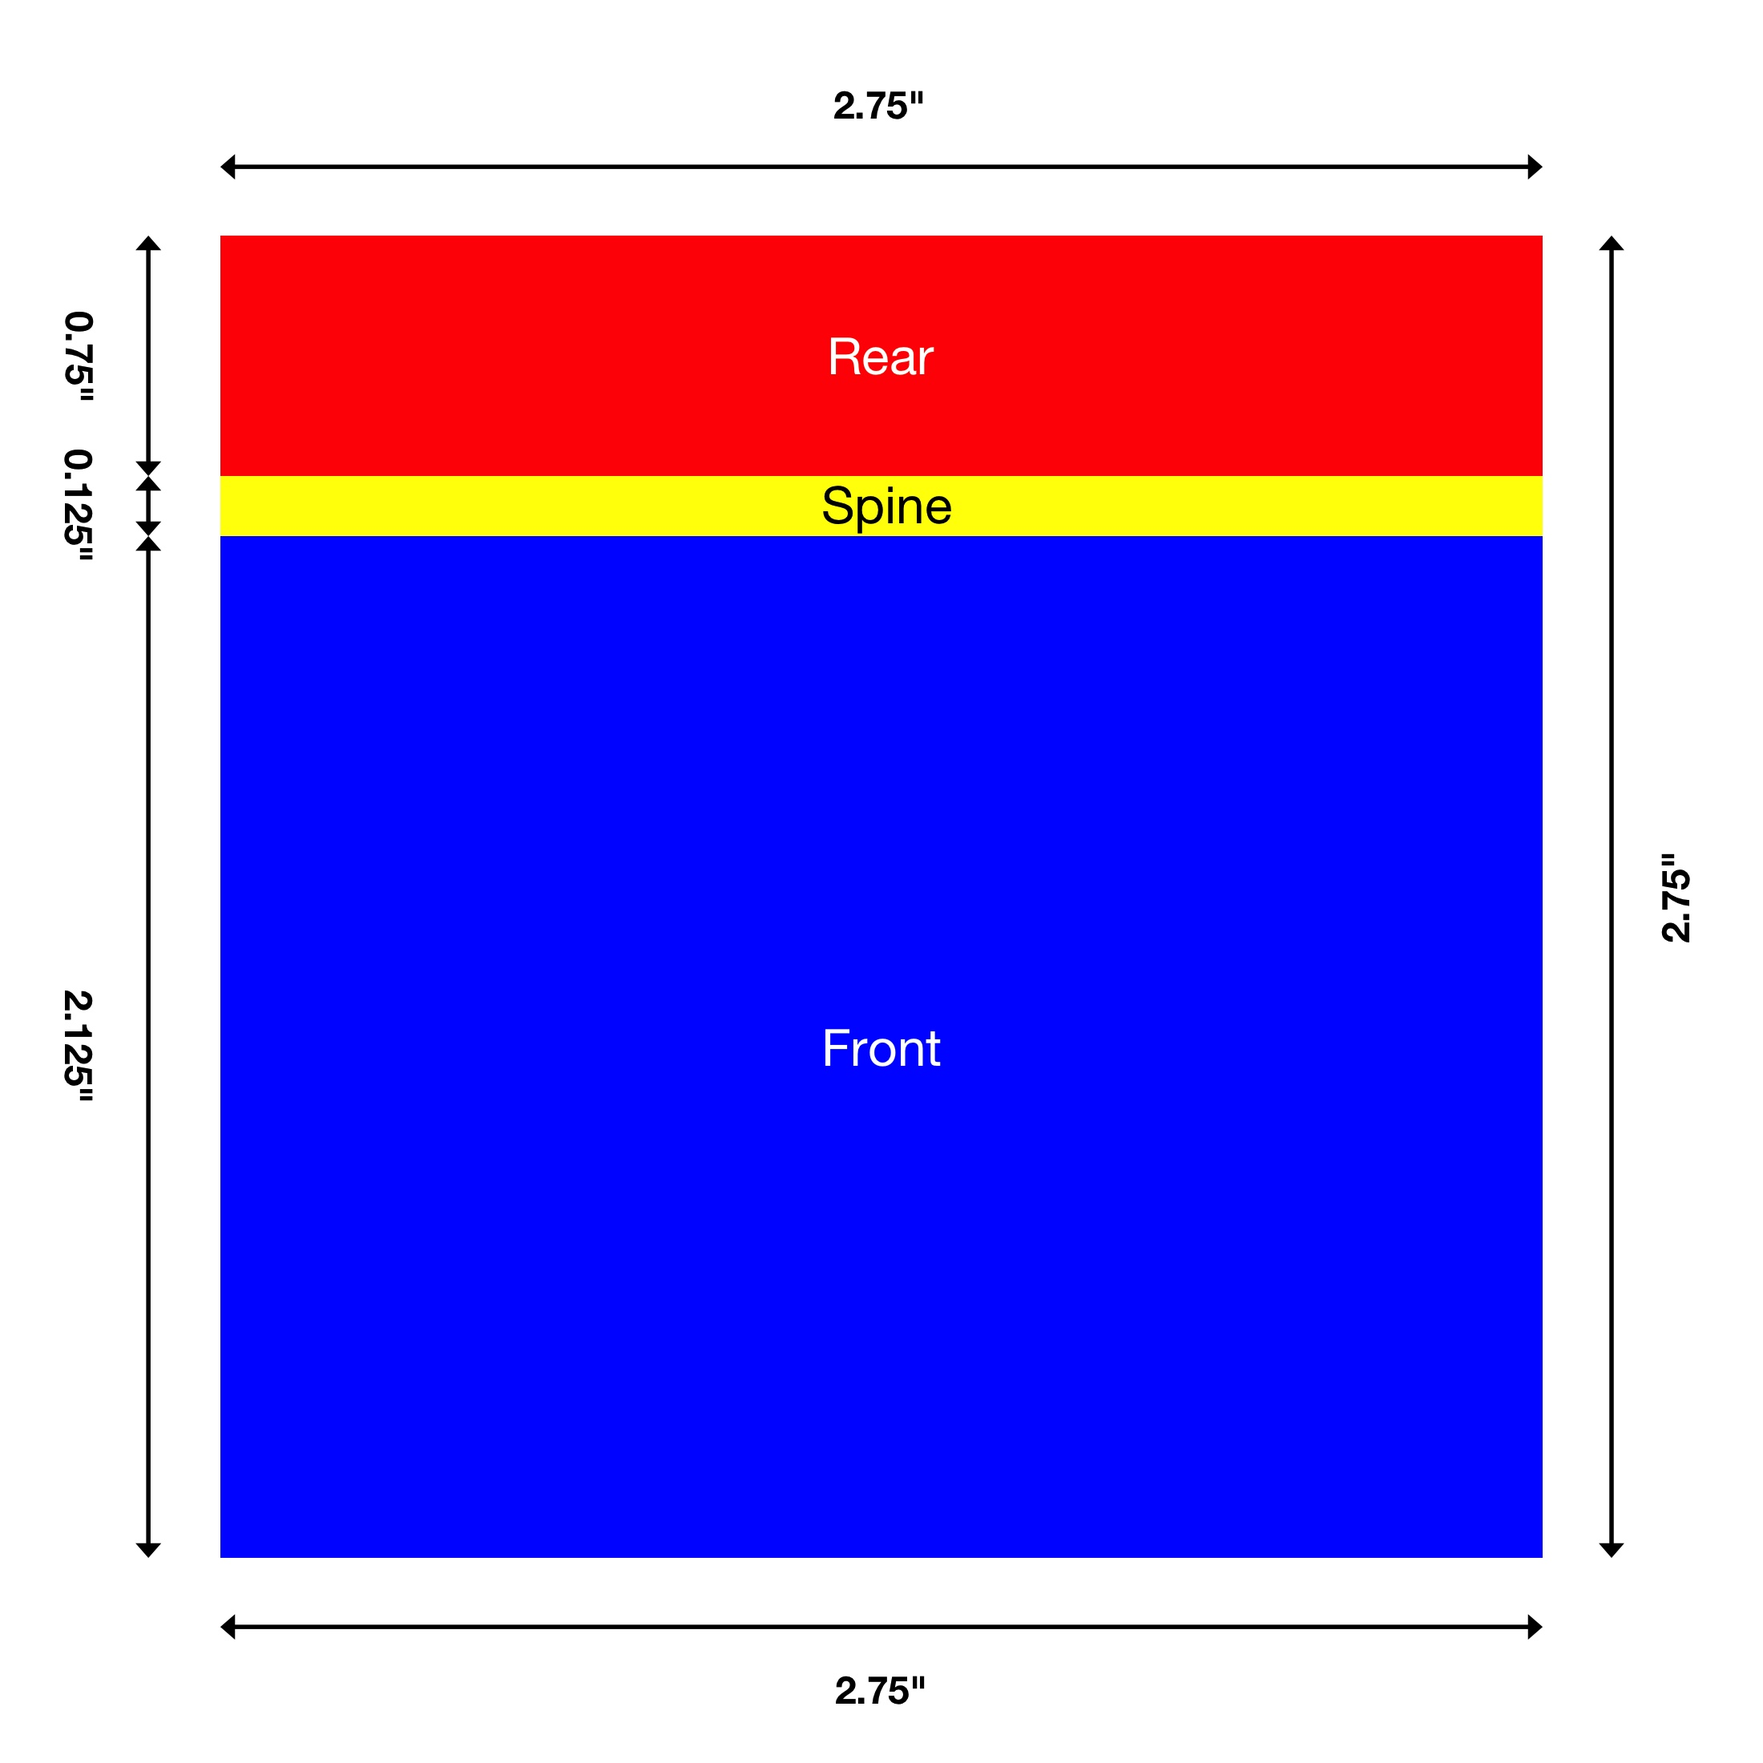
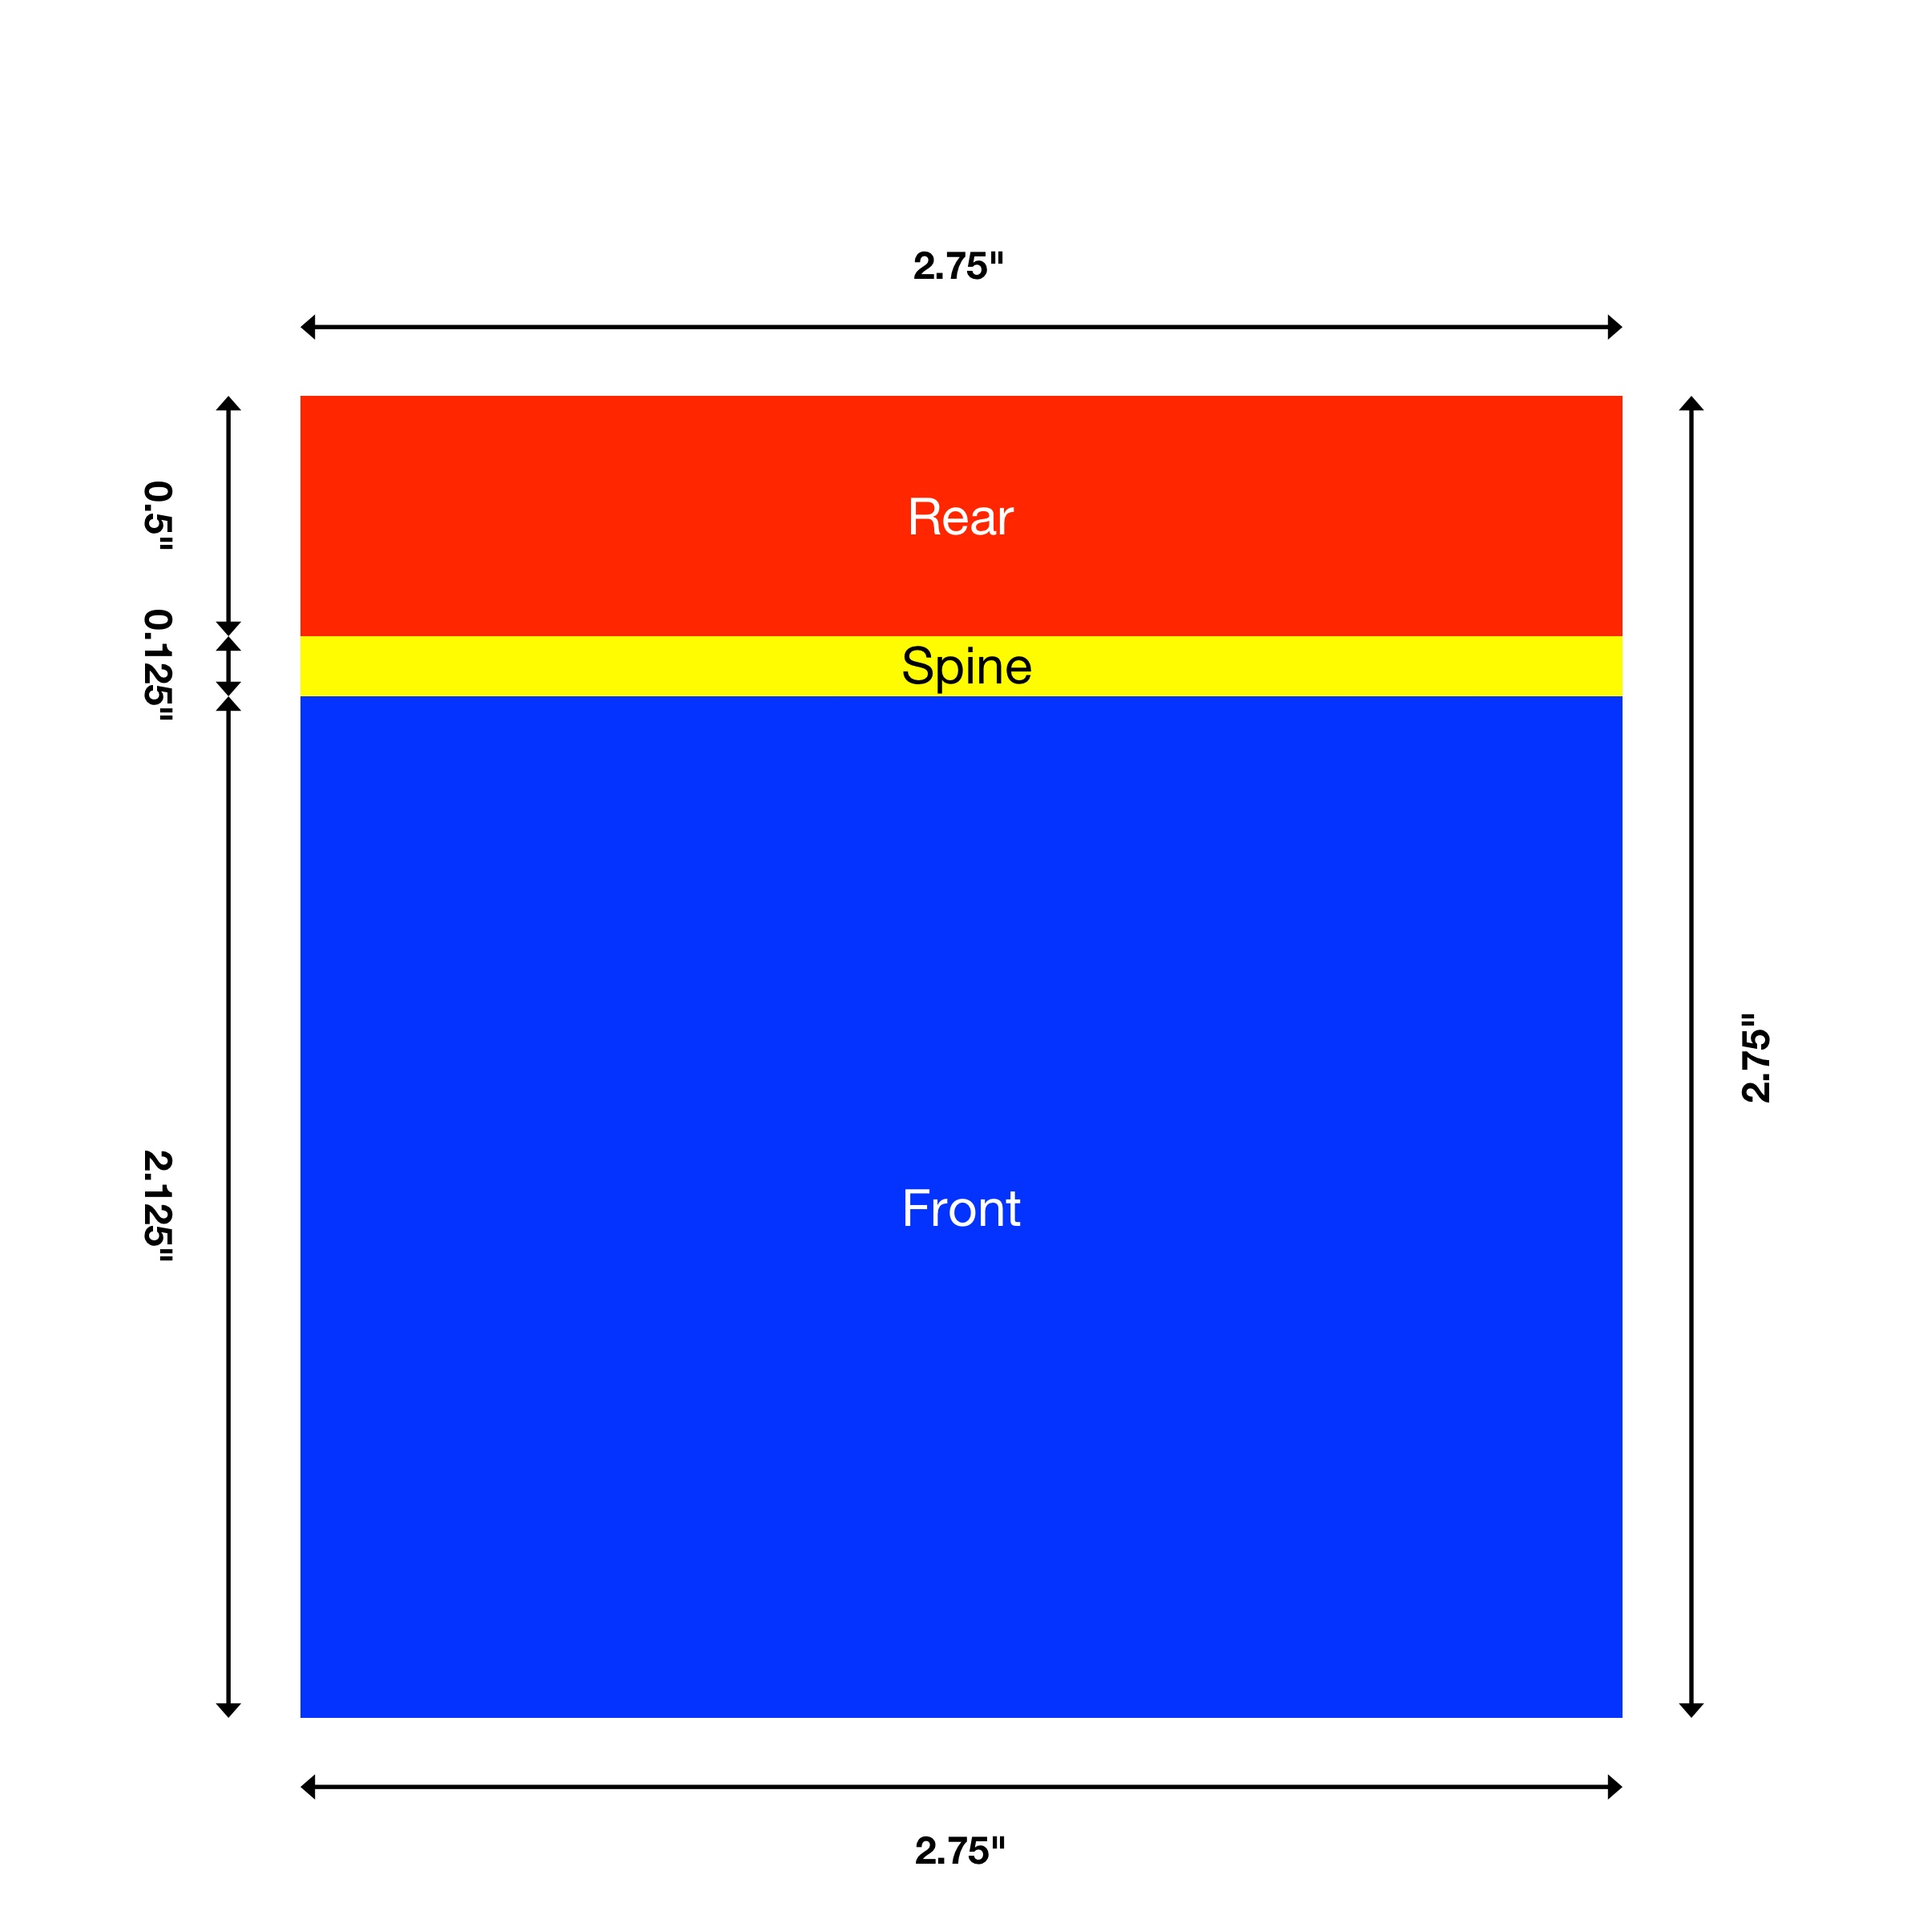
fix size

diff --git a/docs/_posts/2023-06-25-floppy-disk-labels.md b/docs/_posts/2023-06-25-floppy-disk-labels.md
@@ -2,10 +2,13 @@
 layout: post
 title:  "Making reproduction floppy disk labels"
 ---
+# WORK IN PROGRESS
 # INTRO AREA
 
 # Actually making labels
-The first step was to measure the front, spine, and rear label areas of a 3.5" floppy disk. The front label area is 2.75 inches wide and 2.125 (2 1/8) inches tall. The spine is 2.75 inches wide and 0.125 (1/8) inches tall. The rear label area is 2.75 inches wide and 0.75 inches tall. The three label areas sum together to form a 2.75 inch square with rounded corners.
+The first step was to measure the front, spine, and rear label areas of a 3.5" floppy disk. The front label area is 2.75 inches wide and 2.125 (2 1/8) inches tall. The spine is 2.75 inches wide and 0.125 (1/8) inches tall. The rear label area is 2.75 inches wide and 0.5 inches tall. The three label areas sum together to form a 2.75 inch square with rounded corners. This makes a label that wraps from the front to the rear.
 ![Label printable area sizes][image-1]
+
+The next step was to open Pixelmator Classic and create a new project. I selected 2.75 inches wide and 2.75 inches high at 600 pixels per inch. This creates a canvas that is the exact size of the label. I then locked the background layer to avoid accidentally dragging the background and created a square shape on the canvas. I resized it to 1650 (2.75") pixels wide and 1275 pixels (2.125") high. I gave it a light gray fill color to tell it apart from the background and set the border stroke to none so that it became borderless. I then added another square and resized it to 1650 pixels (2.75") wide and 75 pixels (0.125") high and gave it a slightly darker gray fill. And a final square shape resized to 1650 pixels (2.75") wide and 300 pixels (0.5") high with a dark gray fill.
 
 [image-1]:	/assets/images/floppy-disk-labels/label-area-size.jpeg
